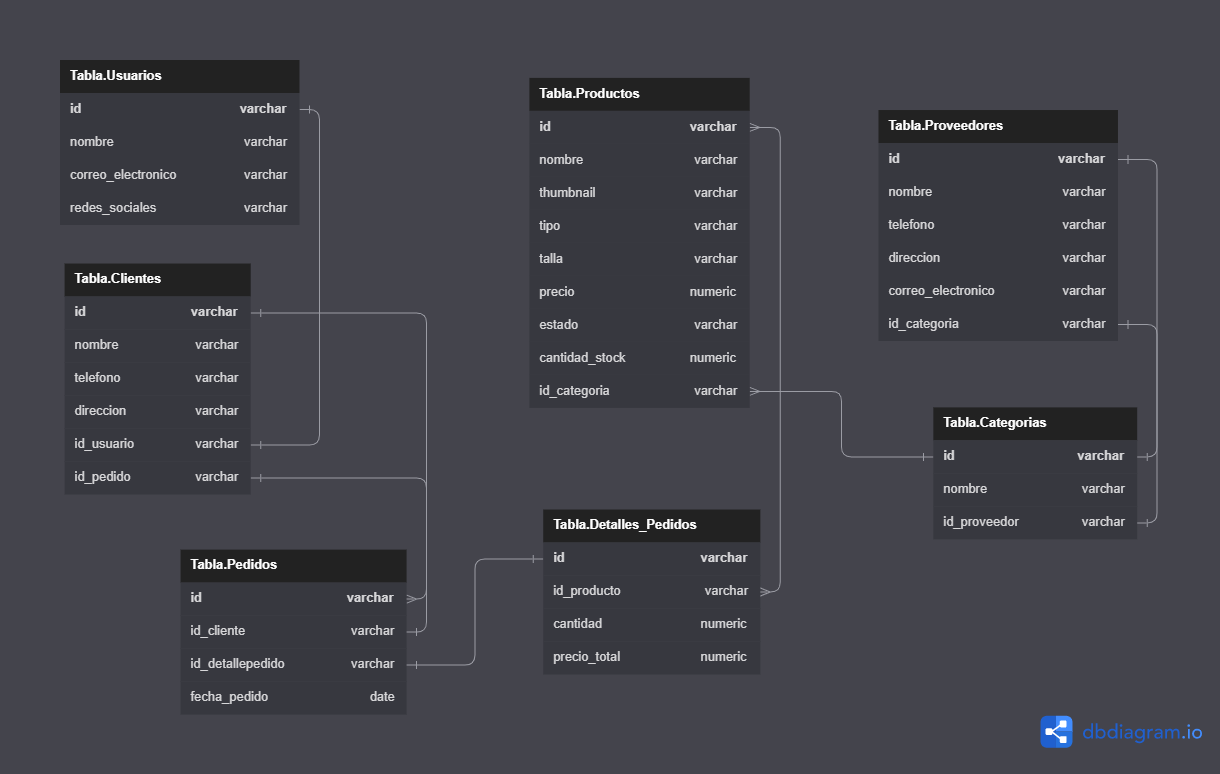
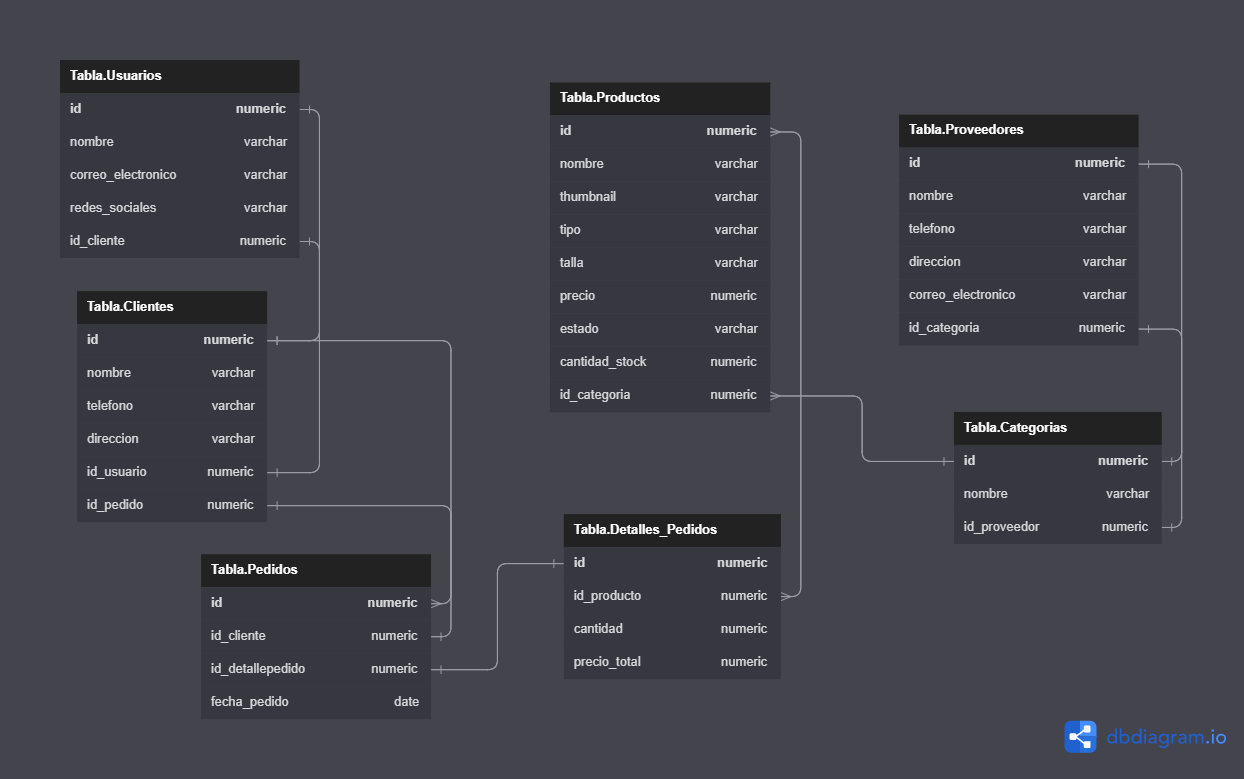
Relación Usuarios-Clientes

diff --git a/pTienda/api-tienda/src/modules/clientes/clientes.service.ts b/pTienda/api-tienda/src/modules/clientes/clientes.service.ts
@@ -7,6 +7,7 @@ import { Cliente } from './entities/cliente.entity';
 
 @Injectable()
 export class ClientesService {
+  UsuariosService: any;
   constructor(
     @InjectRepository(Cliente)
     private readonly clienteRepository: Repository<Cliente>,
@@ -14,10 +15,15 @@ export class ClientesService {
 
   async create(createClienteDto: CreateClienteDto) {
     try {
-      const cliente = this.clienteRepository.create(createClienteDto);
+      const { idUsuario, ...campos } = createClienteDto;
+      console.log({...campos});
+      const usuario = this.UsuariosService.findOne(idUsuario);
+      const cliente = this.clienteRepository.create({...campos});
+      cliente.usuario = await this.UsuariosService.findOne(idUsuario);
       await this.clienteRepository.save(cliente);
       return cliente;
-    } catch (error) {
+    }
+    catch (error) {
       console.log(error);
       throw new InternalServerErrorException('Ayuda!');
     }

diff --git a/pTienda/api-tienda/src/modules/clientes/entities/cliente.entity.ts b/pTienda/api-tienda/src/modules/clientes/entities/cliente.entity.ts
@@ -1,4 +1,11 @@
-import { Column, Entity, PrimaryGeneratedColumn } from 'typeorm';
+import { Usuario } from 'src/modules/usuarios/entities/usuario.entity';
+import {
+  Column,
+  Entity,
+  JoinColumn,
+  OneToOne,
+  PrimaryGeneratedColumn,
+} from 'typeorm';
 
 @Entity()
 export class Cliente {
@@ -13,4 +20,12 @@ export class Cliente {
 
   @Column('text', { unique: true })
   direccion: string;
+
+  @OneToOne(
+    () => Usuario,
+    (usuario) => usuario.cliente,
+    { cascade: false }
+  )
+  @JoinColumn()
+  usuario?: Usuario;
 }

diff --git a/pTienda/api-tienda/src/modules/usuarios/entities/usuario.entity.ts b/pTienda/api-tienda/src/modules/usuarios/entities/usuario.entity.ts
@@ -1,4 +1,5 @@
-import { Column, Entity, PrimaryGeneratedColumn } from 'typeorm';
+import { Cliente } from 'src/modules/clientes/entities/cliente.entity';
+import { Column, Entity, JoinColumn, OneToOne, PrimaryGeneratedColumn } from 'typeorm';
 
 @Entity()
 export class Usuario {
@@ -13,4 +14,11 @@ export class Usuario {
 
   @Column('text', { unique: true })
   redes_sociales: string;
+
+  @OneToOne(
+    () => Cliente,
+    (cliente) => cliente.usuario,
+  )
+  @JoinColumn()
+  cliente?: Cliente;
 }

diff --git a/pTienda/api-tienda/src/modules/usuarios/dto/create-usuario.dto.ts b/pTienda/api-tienda/src/modules/usuarios/dto/create-usuario.dto.ts
@@ -12,4 +12,7 @@ export class CreateUsuarioDto {
   @IsString()
   @MinLength(1)
   redes_sociales: string;
+
+  @IsString()
+  idCliente: number;
 }

diff --git a/pTienda/api-tienda/src/modules/clientes/dto/create-cliente.dto.ts b/pTienda/api-tienda/src/modules/clientes/dto/create-cliente.dto.ts
@@ -12,4 +12,7 @@ export class CreateClienteDto {
   @IsString()
   @MinLength(5)
   direccion: string;
+
+  @IsString()
+  idUsuario: string;
 }
